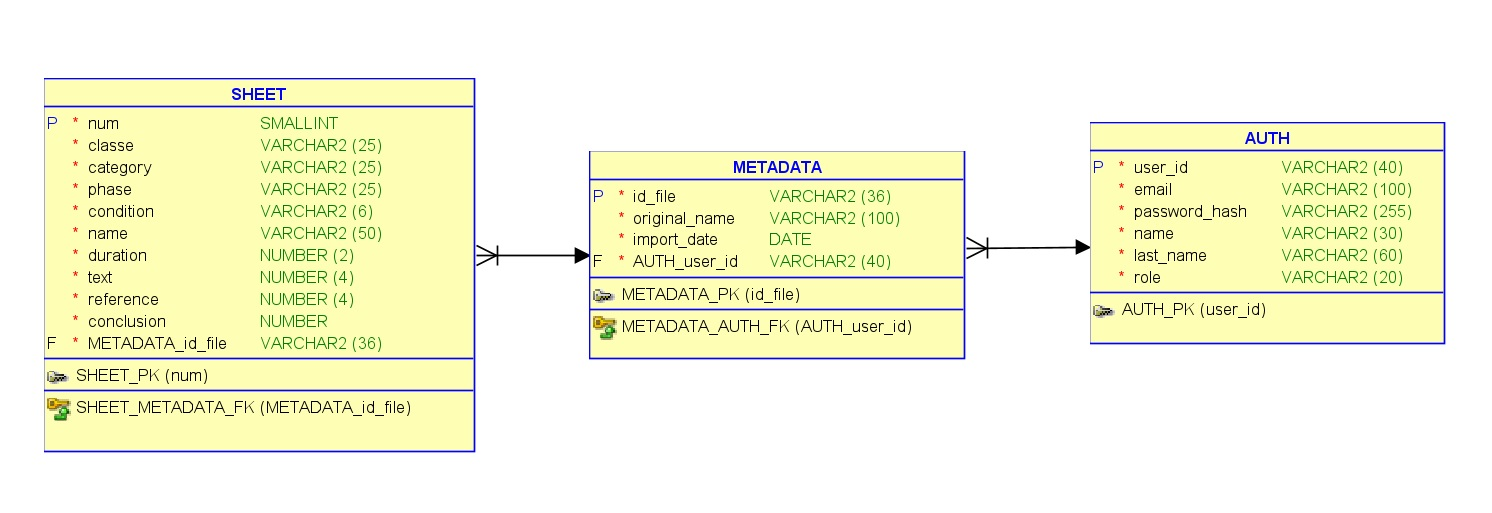
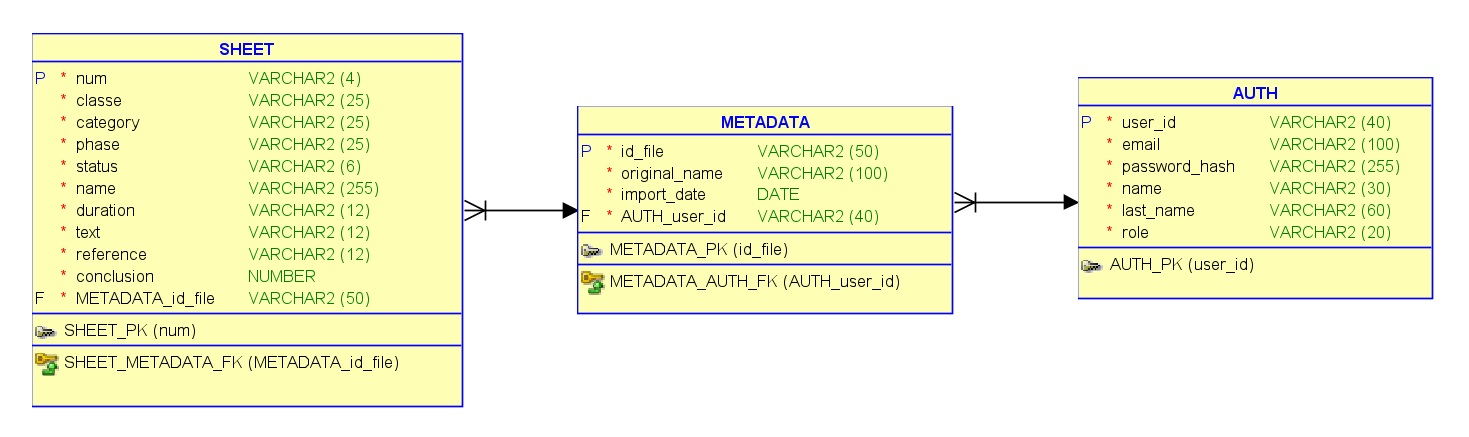
UPDATE README

Changed region(s): [[0.0, 0.0595, 0.9803, 0.9519]]

diff --git a/README.md b/README.md
@@ -34,21 +34,21 @@ O projeto é construído com as seguintes tecnologias:
 ```
 backend-aché/
 ├── backend/
-│   ├── dados/
-│   │   ├── uploads/          # Diretório para arquivos de planilha
-│   │   └── metadados.json    # Arquivo para persistência de dados
-│   ├── __init__.py           # Inicializa o pacote
-│   ├── app.py                # Ponto de entrada da aplicação
-│   ├── auth.py               # Blueprint para rotas de autenticação (login/logout)
-│   └── files.py              # Blueprint para rotas de arquivos (upload/download/delete)
+│   ├── uploads/            # Diretório para arquivos de planilha
+│   ├── __init__.py         # Inicializa o pacote
+│   ├── app.py              # Ponto de entrada da aplicação
+│   ├── auth.py             # Blueprint para rotas de autenticação (login/logout)
+│   └── files.py            # Blueprint para rotas de arquivos (upload/download/delete)
+│   └── db.py               # Lógica de comunicação com o banco de dados MySQL
+│   └── from_to_mysql.py    # Converte os dados das planilhas para o MySQL e vice-versa
 ├── chatbotV8/
-│   ├── __init__.py       # Inicializa o pacote
-│   ├── chatbot.py        # Rota e lógica de interação do chatbot
-│   ├── interpretador.py  # Lógica de interpretação da mensagem
-│   ├── organizador.py    # Lógica de comunicação com o Gemini e tratamento de panilhas
-│   └── treinar.py        # Dados para o modo padrão do chatbot
-├── .env                  # Variáveis de ambiente (sua chave secreta e API Key)
-└── requirements.txt      # Lista de dependências do Python
+│   ├── __init__.py         # Inicializa o pacote
+│   ├── chatbot.py          # Rota e lógica de interação do chatbot
+│   ├── interpretador.py    # Lógica de interpretação da mensagem
+│   ├── organizador.py      # Lógica de comunicação com o Gemini e tratamento de panilhas
+│   └── treinar.py          # Dados para o modo padrão do chatbot
+├── .env                    # Variáveis de ambiente (sua chave secreta, API Key Gemini e acesso ao MySQL)
+└── requirements.txt        # Lista de dependências do Python
 ```
 
 ## Como colocar para funcionar
@@ -72,12 +72,23 @@ Crie um arquivo chamado `.env` na pasta principal do projeto (`backend-aché`), 
 ```
 FLASK_SECRET_KEY="SUA_CHAVE_SECRETA_AQUI"
 GOOGLE_API_KEY="SUA_CHAVE_GEMINI_AQUI"
+USER_DB="NOME_DE_USUARIO_DO_BANCO_DE_DADOS"
+PASSWORD_DB="SENHA_DO_BANCO_DE_DADOS"
+HOST_DB="HOST_DO_BANCO_DE_DADOS"
+PORT_DB="0000"
+DATABASE="NOME_DO_BANCO_DE_DADOS"
 ```
 
 * **FLASK_SECRET_KEY:** Uma chave de sessão segura. Você pode adicionar qualquer valor aleatório.
 * **GOOGLE_API_KEY:** A chave da API do Gemini, pode ser criada em [Google AI Studio](https://aistudio.google.com/app/apikey).
+* **DEMAIS VARIÁVEIS:** É necessário fazer download e configurar o MySQL. Disponível em: [MySQL Download](https://www.mysql.com/downloads/).
 
-### 4. Executar o servidor
+### 4. Configurar o MySQL
+Na pasta `database` está o arquivo `TABELAS_ACHÉ-MySQL.sql` com os comandos para criar um banco de dados `ache_db` que armazena as informações dos usuários e os dados das planilhas importadas.
+
+![Diagrama](/assets/Database.jpg)
+
+### 5. Executar o servidor
 Navegue até o diretório do projeto
 ```
 cd D:\...\backend-aché\
